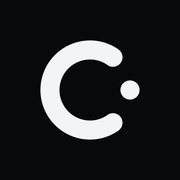
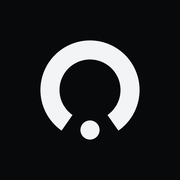
feat(brand): turn the mark to open downward
Rotate the mark a quarter turn, so the C opens at the bottom and the
dot sits in its opening. Same arc, stroke and dot, so it reads the same
at 16 px. Updated in the inline SVG, the browser tab icon, the raster
icons and the brand files together.

Changed region(s): [[0.3333, 0.2778, 0.7778, 0.7778]]

diff --git a/app/src/components/conduit-mark.tsx b/app/src/components/conduit-mark.tsx
@@ -1,15 +1,15 @@
 /**
- * Conduit's mark: a bold C, and a dot on the same circle just past its
- * opening, the next step along the path. What you say goes out through one
- * channel.
+ * Conduit's mark: a bold C turned to open downward, and a dot on the same
+ * circle in its opening, the next step along the path. What you say goes out
+ * through one channel.
  *
  * Drawn in currentColor, so it takes the text color of wherever it sits and
  * follows the theme with no second image and no invert filter. The browser
  * tab icon (src/app/icon.svg) and the rendered icons in assets/brand/ use the
  * same geometry; change them together.
  */
-const MARK_PATH = "M44.05 14.8A21 21 0 1 0 44.05 49.2";
-const MARK_DOT = { cx: 53, cy: 32, r: 5 } as const;
+const MARK_PATH = "M49.2 44.05A21 21 0 1 0 14.8 44.05";
+const MARK_DOT = { cx: 32, cy: 53, r: 5 } as const;
 
 export function ConduitMark({ className, title }: { className?: string; title?: string }) {
   return (
